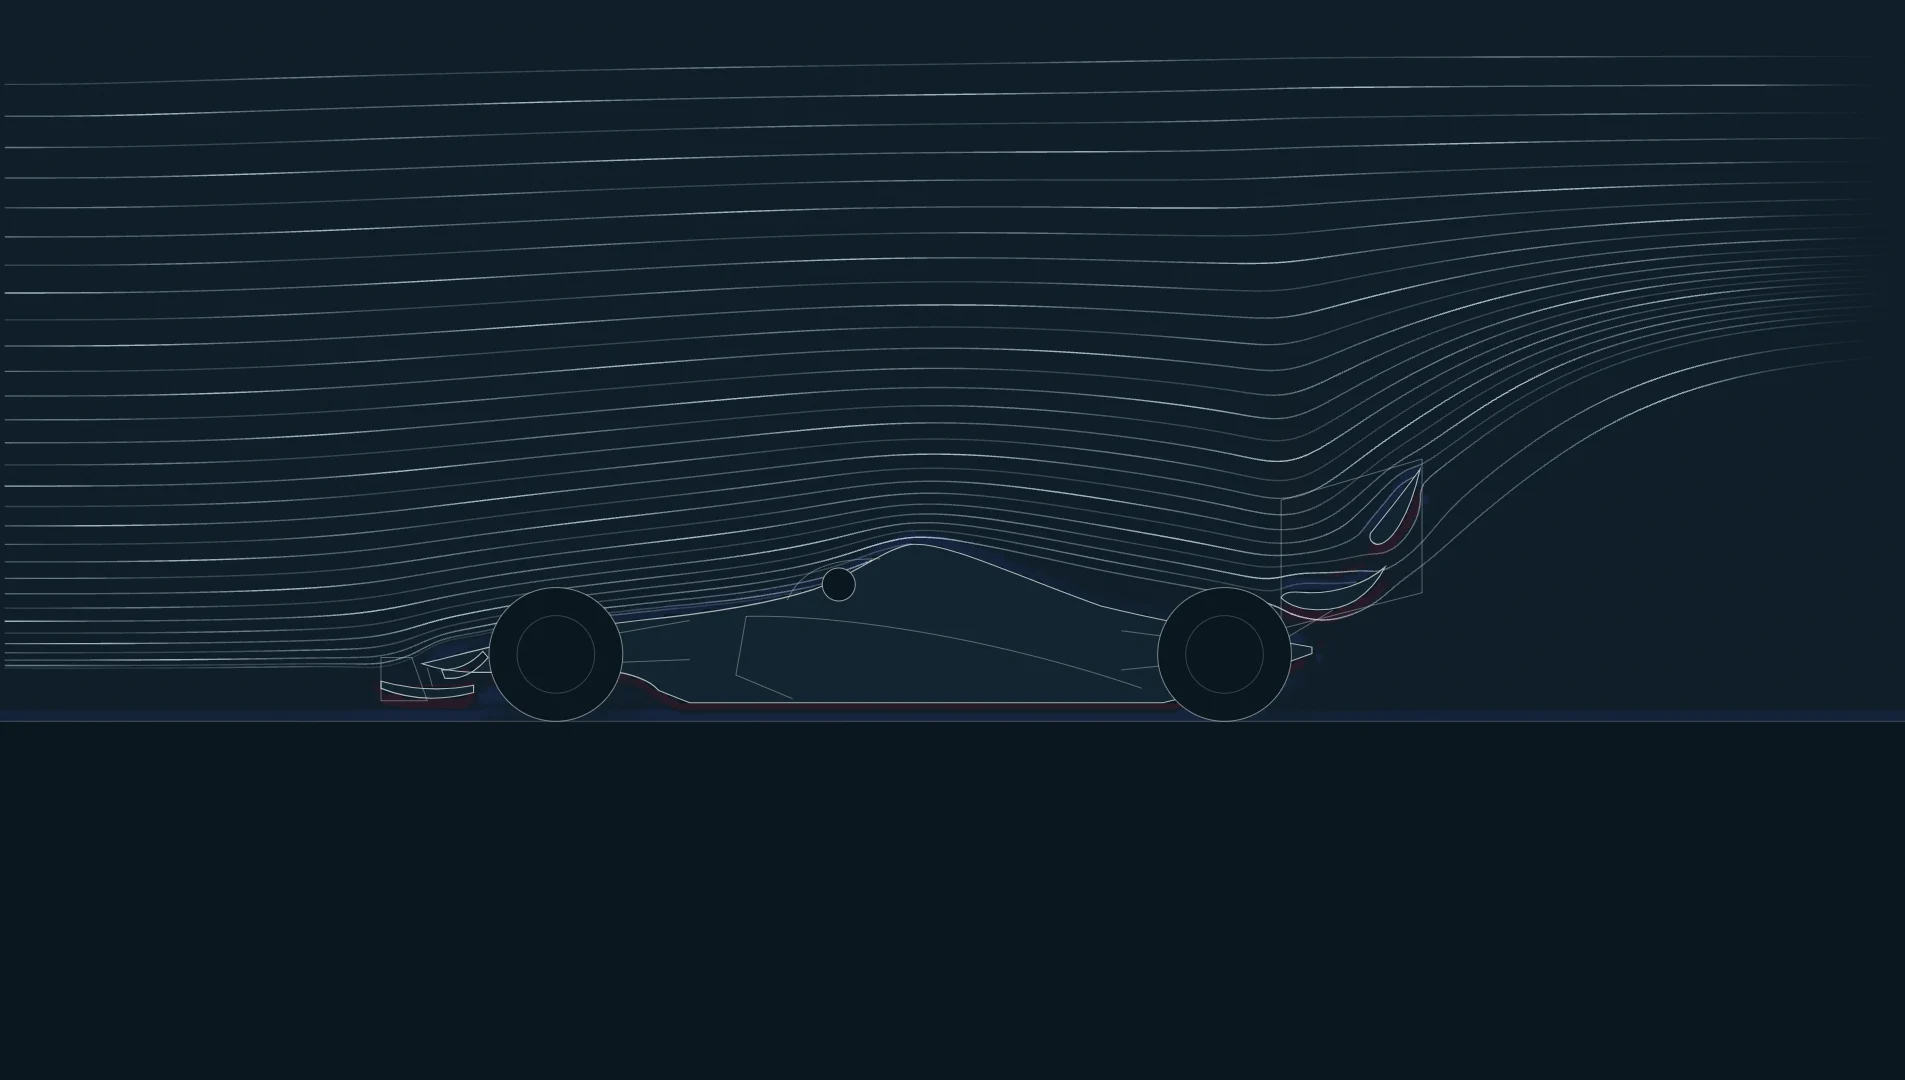
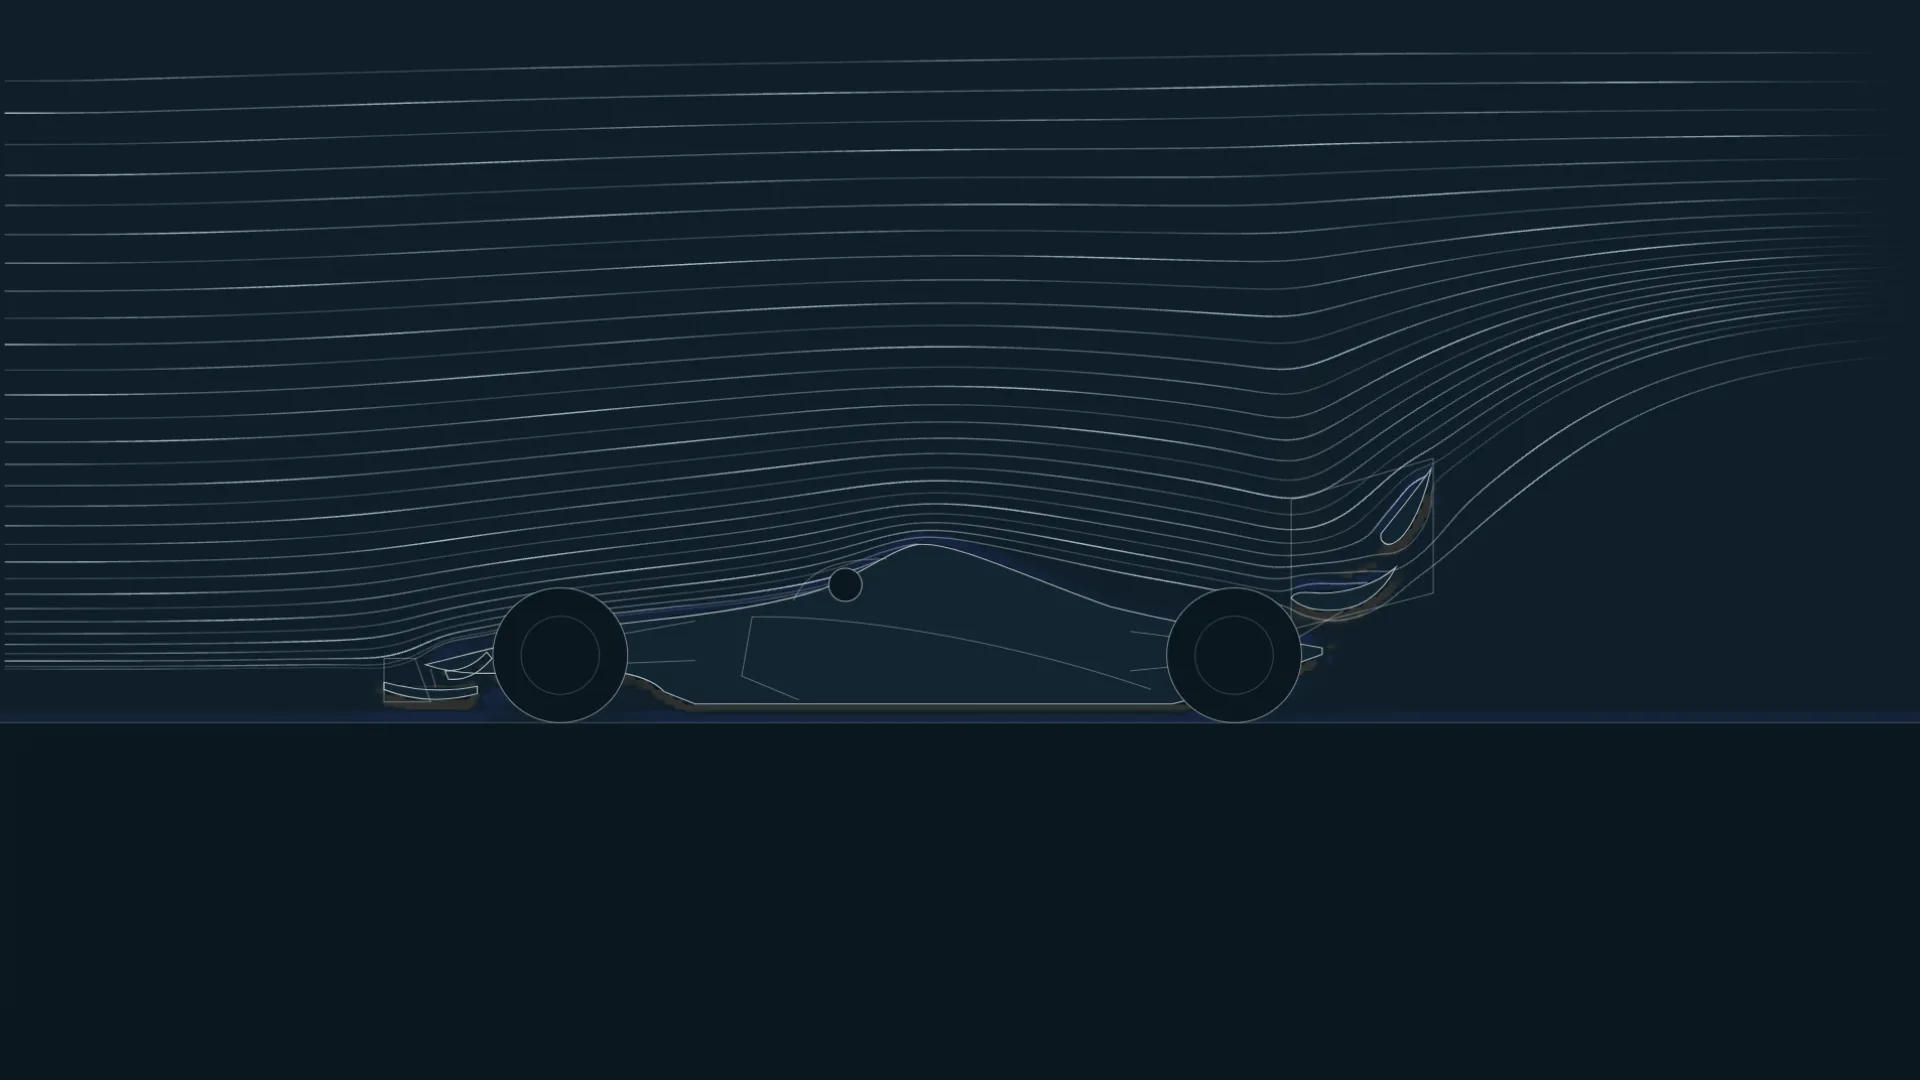
Add amber accent and a colour for each project folder

diff --git a/css/main.css b/css/main.css
@@ -15,14 +15,16 @@
   --tunnel: #0F1E28;
   --smoke: #E6ECEE;
   --soft: rgba(230, 236, 238, 0.68);
-  --rule: rgba(230, 236, 238, 0.16);
+  --rule: rgba(233, 161, 91, 0.26);
+  --hotwire: #E9A15B;
+  --paper: #DDD3BD;
   --sheet: #9DAEB6;
   --plot-grid: rgba(230, 236, 238, 0.1);
 
-  --stock-cranfield: #182C39;
-  --stock-formula: #1E3543;
-  --stock-caltec: #253F4E;
-  --stock-lap: #2D4A59;
+  --stock-cranfield: #1B3350;
+  --stock-formula: #17392F;
+  --stock-caltec: #352A4A;
+  --stock-lap: #4A2026;
 
   --serif: "Newsreader", Georgia, serif;
   --sans: "Instrument Sans", "Helvetica Neue", Arial, sans-serif;
@@ -1135,3 +1137,22 @@ a { color: inherit; -webkit-tap-highlight-color: transparent; }
   }
   @view-transition { navigation: none; }
 }
+
+/* Hot wire marks what is measured or actionable, and the small labels that guide the eye. */
+::selection { background: var(--hotwire); color: var(--tunnel); }
+:focus-visible { outline-color: var(--hotwire); }
+.folder:focus-visible .folder__front { outline-color: var(--hotwire); }
+.hero__role { color: var(--hotwire); }
+.nav a:hover, .hero__cue:hover { text-decoration-color: var(--hotwire); }
+#contraction-fade stop:nth-child(3), #contraction-fade stop:nth-child(4) { stop-color: var(--hotwire); }
+#climb-rise stop:last-child { stop-color: var(--hotwire); }
+.climb__point--latest::before { background: var(--hotwire); }
+.doc u, .stage u, .tag u, .folder__result u { text-decoration-color: var(--hotwire); }
+.folder__open, .contact__links a, .doc--even .doc-row__body a, .doc-foot a { text-decoration-color: var(--hotwire); }
+.folder__sheet { background: var(--paper); }
+.has-motion .events__progress span { background: var(--hotwire); }
+
+.section-title, .doc-kicker, .next__hint, .degree__award { color: var(--hotwire); }
+.doc-list li::before { background: var(--hotwire); }
+.back svg { color: var(--hotwire); }
+.nav a:hover, .hero__cue:hover { color: var(--hotwire); }

diff --git a/index.html b/index.html
@@ -110,7 +110,13 @@
       <h2 class="section-title" data-rise>Achievements</h2>
       <p class="achievements__note" data-rise>Competition results with Team Maverick.</p>
       <div class="climb">
-        <svg class="climb__line" viewBox="0 0 1000 400" preserveAspectRatio="none" aria-hidden="true" fill="none" stroke="currentColor">
+        <svg class="climb__line" viewBox="0 0 1000 400" preserveAspectRatio="none" aria-hidden="true" fill="none" stroke="url(#climb-rise)">
+          <defs>
+            <linearGradient id="climb-rise" gradientUnits="userSpaceOnUse" x1="400" y1="0" x2="720" y2="0">
+              <stop offset="0" stop-color="currentColor"/>
+              <stop offset="1" stop-color="currentColor"/>
+            </linearGradient>
+          </defs>
           <path d="M60 220H400C540 220 560 40 720 40"/>
         </svg>
         <ol class="climb__results">
@@ -224,7 +230,7 @@
             <span class="folder__sheet"></span>
             <div class="folder__front">
               <div>
-                <h3 class="folder__title">Telemetry analysis of the 0.077 s pole margin at Monza</h3>
+                <h3 class="folder__title">Telemetry analysis of the 0.077&nbsp;s pole margin at Monza</h3>
                 <p class="folder__summary">A Python telemetry analysis of the pole and P2 laps from Q3 at the 2025 Italian Grand Prix, with a ghost car replay.</p>
                 <p class="folder__result">Official gap reproduced to <u>within 0.006 s</u>.</p>
               </div>

diff --git a/js/flow/shaders.js b/js/flow/shaders.js
@@ -247,7 +247,7 @@ window.FlowShaders = (function () {
     vec3 tunnel = vec3(0.059, 0.118, 0.157);
     vec3 floorCol = vec3(0.043, 0.090, 0.122);
     vec3 cool = vec3(0.231, 0.298, 0.753);
-    vec3 warm = vec3(0.706, 0.016, 0.149);
+    vec3 warm = vec3(0.914, 0.631, 0.357);
     float k = smoothstep(0.12, 1.3, abs(w)) * 0.14 * uTint * (1.0 - smoothstep(0.1, 0.4, a));
     vec3 col = mix(tunnel, w > 0.0 ? warm : cool, k);
     col = mix(col, floorCol, smoothstep(0.2, 0.45, a));

diff --git a/projects/one-lap.html b/projects/one-lap.html
@@ -32,7 +32,7 @@
 
 <header class="doc-head doc-head--lap">
   <p class="doc-kicker">One Lap</p>
-  <h1 class="doc-title">Telemetry analysis of the 0.077 s pole margin at Monza</h1>
+  <h1 class="doc-title">Telemetry analysis of the 0.077&nbsp;s pole margin at Monza</h1>
   <p class="doc-context">A personal project from October 2026: F1 qualifying telemetry from Q3 at the 2025 Italian Grand Prix, analysed in Python.</p>
 </header>
 

diff --git a/projects/caltec.html b/projects/caltec.html
@@ -115,7 +115,7 @@
   <span class="next__tab">One Lap</span>
   <span class="next__body">
     <span class="next__hint">Next folder</span>
-    <span class="next__title">Telemetry analysis of the 0.077 s pole margin at Monza</span>
+    <span class="next__title">Telemetry analysis of the 0.077&nbsp;s pole margin at Monza</span>
   </span>
 </a>
 <footer class="doc-foot doc-foot--lap">
